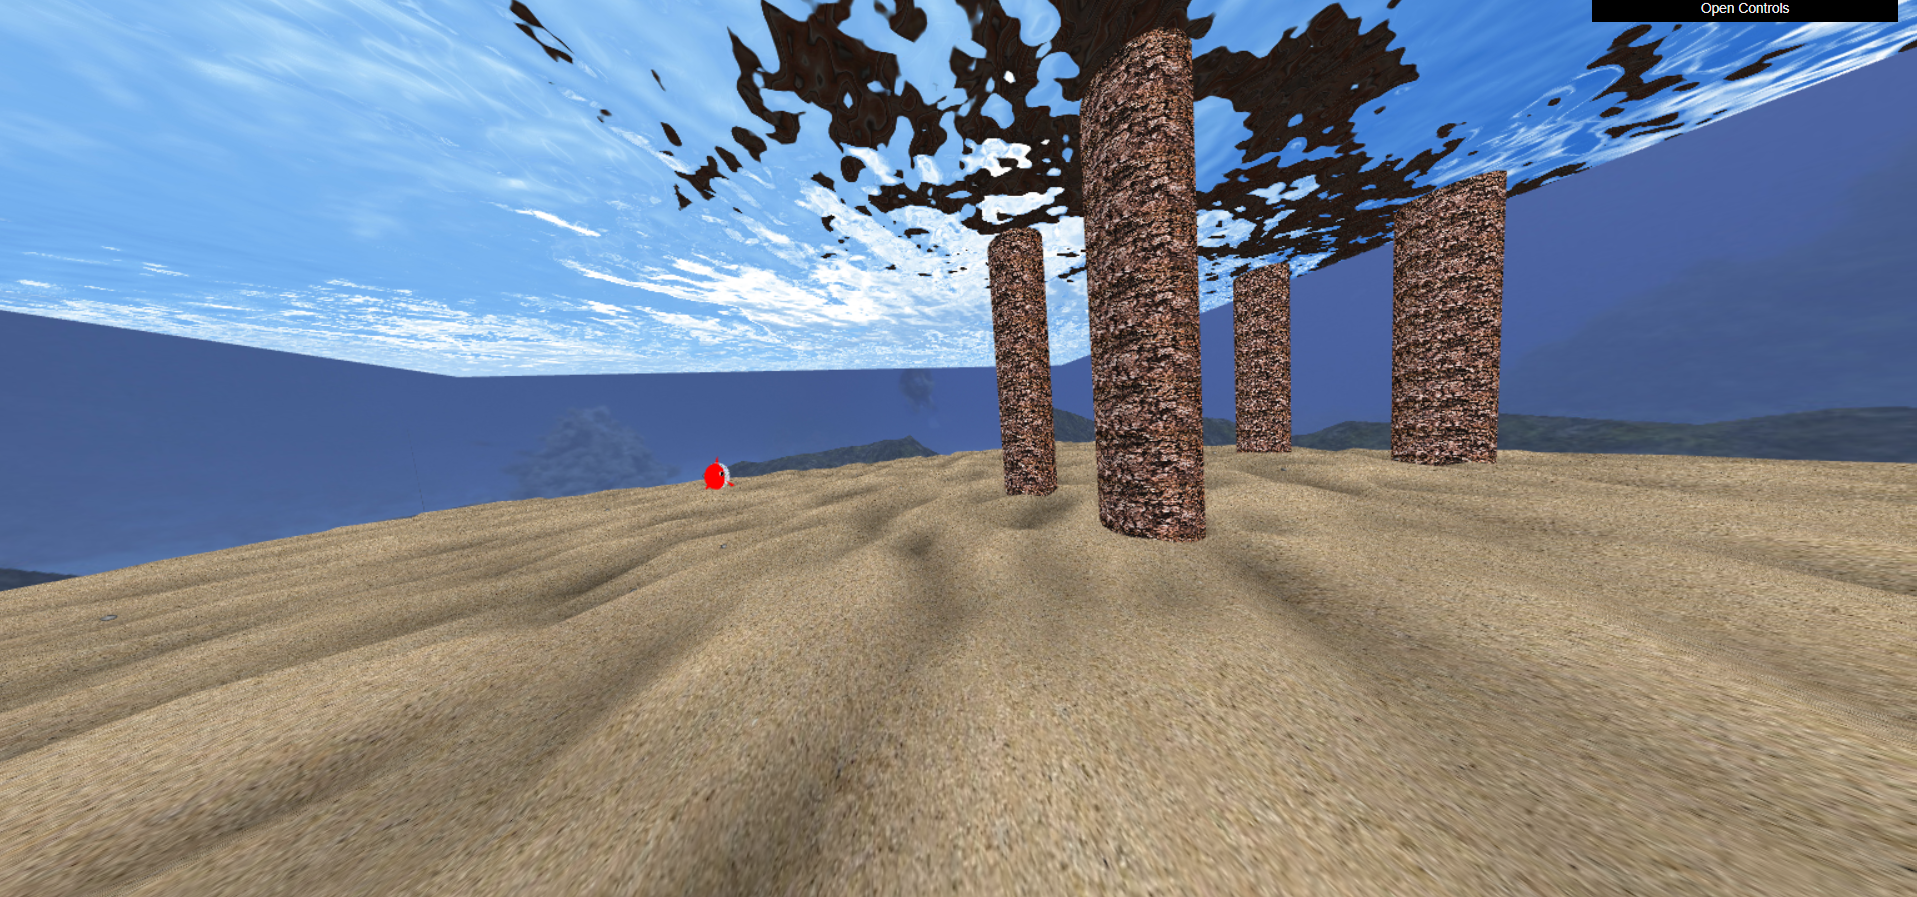
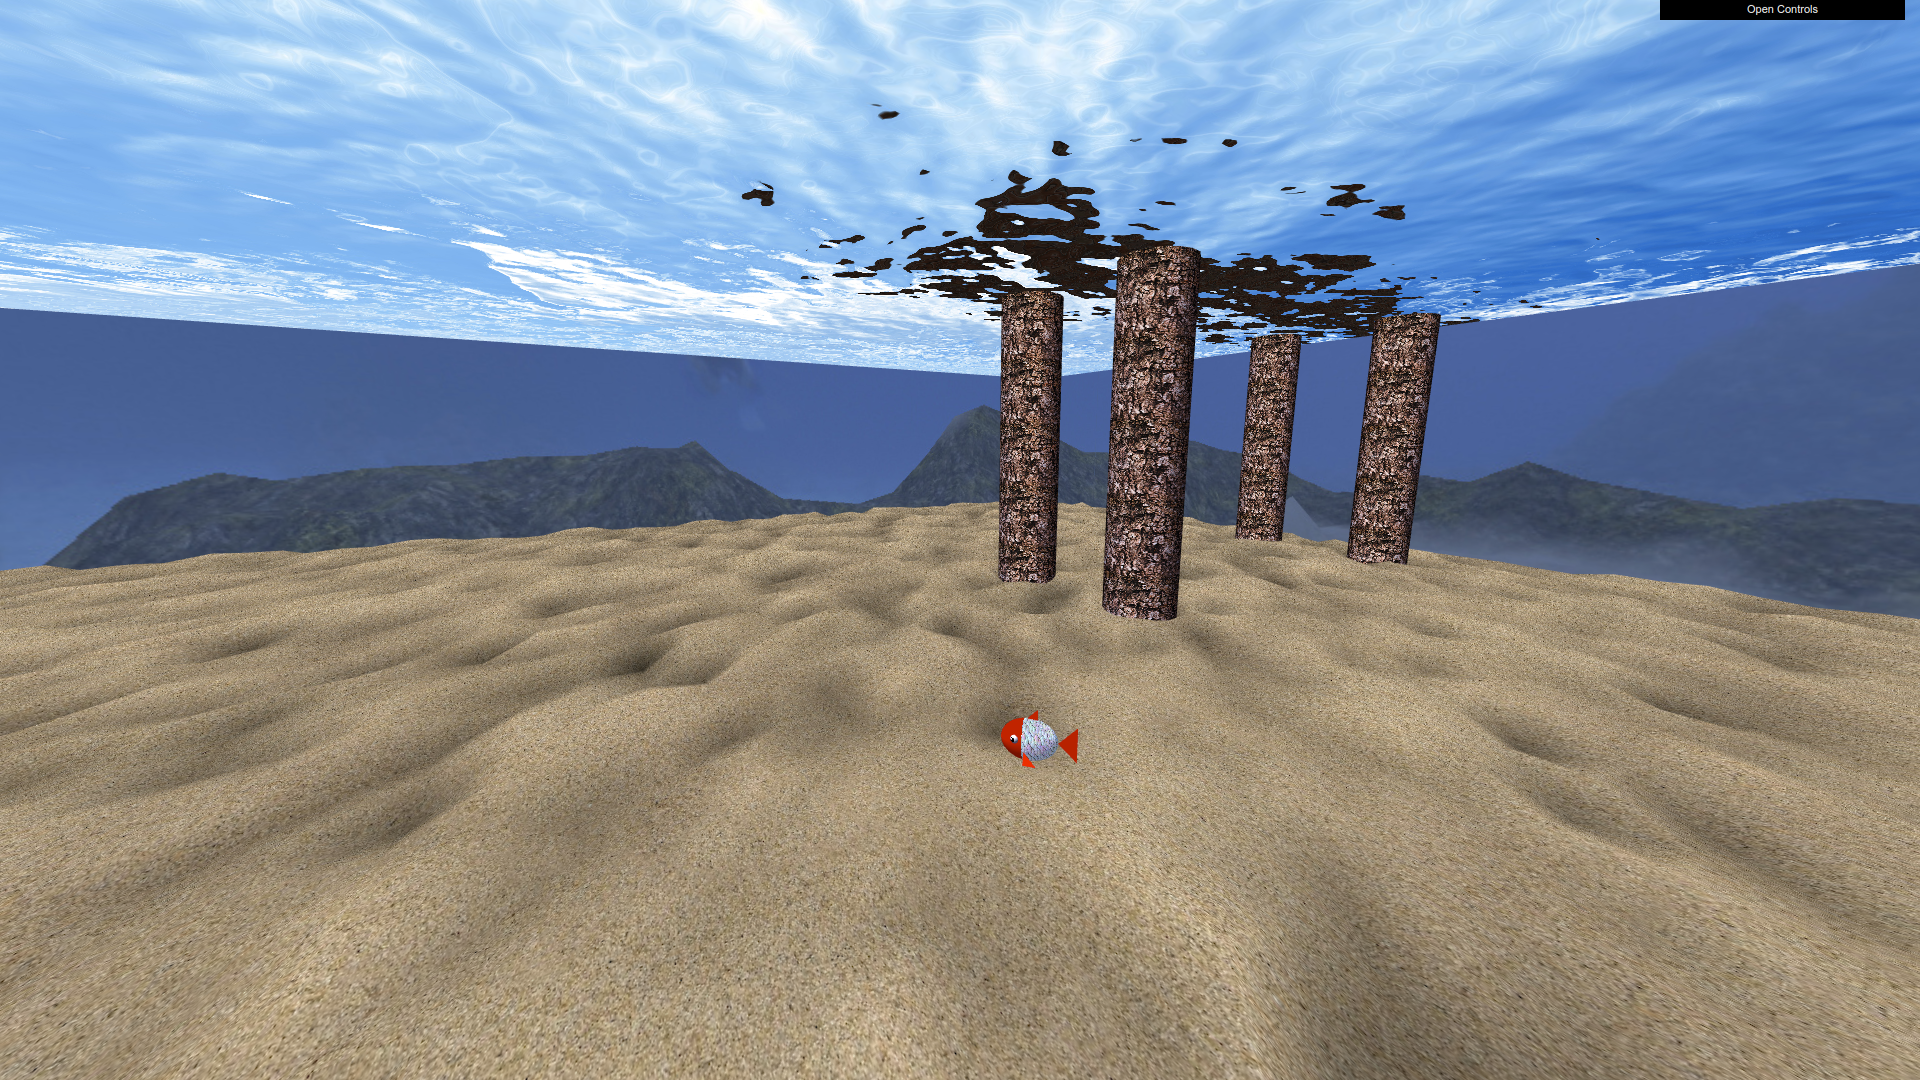
Readme with all screenshots (maybe some gifs are too larger)

diff --git a/project/README.md b/project/README.md
@@ -13,12 +13,13 @@
 ![Fish Top](screenshots/proj-t2g8-1_1.png)
 ![Fish anim](screenshots/proj-t2g8-1.gif)
 
-
 <br/><br/><br/>
+
+
 
 ### 5 - Modelação de elementos da cena
 
-<br/><br/>
+<br/>
 
 #### 5.1  Ninho
 
@@ -39,7 +40,6 @@
 ![Multiple Rocks1](screenshots/proj-t2g8-4_2.png)
 ![Multiple Rocks2](screenshots/proj-t2g8-4_3.png)
 
-
 <br/><br/>
 
 ##### 5.4  Pilares
@@ -52,10 +52,60 @@
 
 ![SeaWeed](screenshots/proj-t2g8-6.png)
 
+<br/><br/><br/>
+
+
+
 ### 6 - Controlos e animações adicionais
+
+<br/>
+
+#### 6.1 MyMovingFish - Peixe controlado pelo teclado
+#### 6.2 Ajuste das animações ao comportamento do peixe
+
+![MovingFish](screenshots/proj-t2g8-7_1.gif)
+
+<br/><br/>
 
 #### 6.3 Recolha de pedras
 
-![Rocks Collection](screenshots/proj-t2g8-7.png)
+![Rocks Collection1](screenshots/proj-t2g8-7_31.png)
+![Rocks Collection2](screenshots/proj-t2g8-7_32.png)
+![Rocks Collection](screenshots/proj-t2g8-7_3.gif)
+
+<br/><br/><br/>
+
+
+
+
+### 7 - Funcionalidades Adicionais
+
+<br/>
+
+#### 7.1 - Algas
+
+![SeaWeed Random](screenshots/proj-t2g8-8_1.png)
+
+<br/>
+
+#### 7.3 - Colocação das pedras no alvo
+
+![Rocks in Nest](screenshots/proj-t2g8-8_3.png)
+
+<br/>
+
+#### 7.4 - Lançamento das pedras para o alvo
+
+![Rocks Throw](screenshots/proj-t2g8-41.gif)
+![Rocks Throw To Nest](screenshots/proj-t2g8-42.gif)
+
+<br/>
+
+#### 7.6 - Shader do peixe melhorado
+
+![Improved Fish Shadow](screenshots/proj-t2g8-61.png)
+![Improved Fish Bright](screenshots/proj-t2g8-62.png)
+
+
 
 
